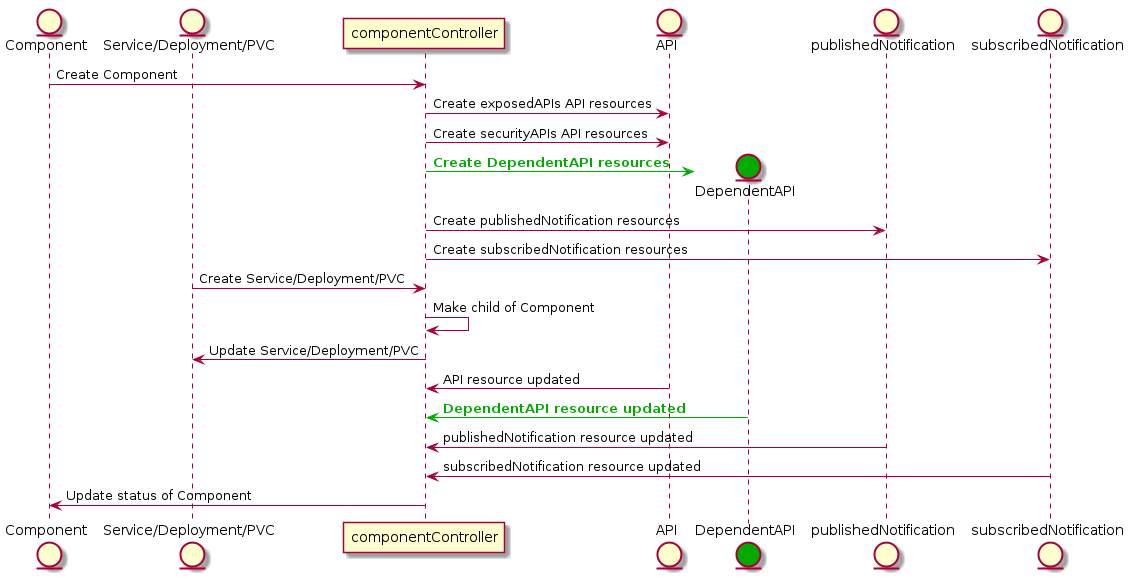
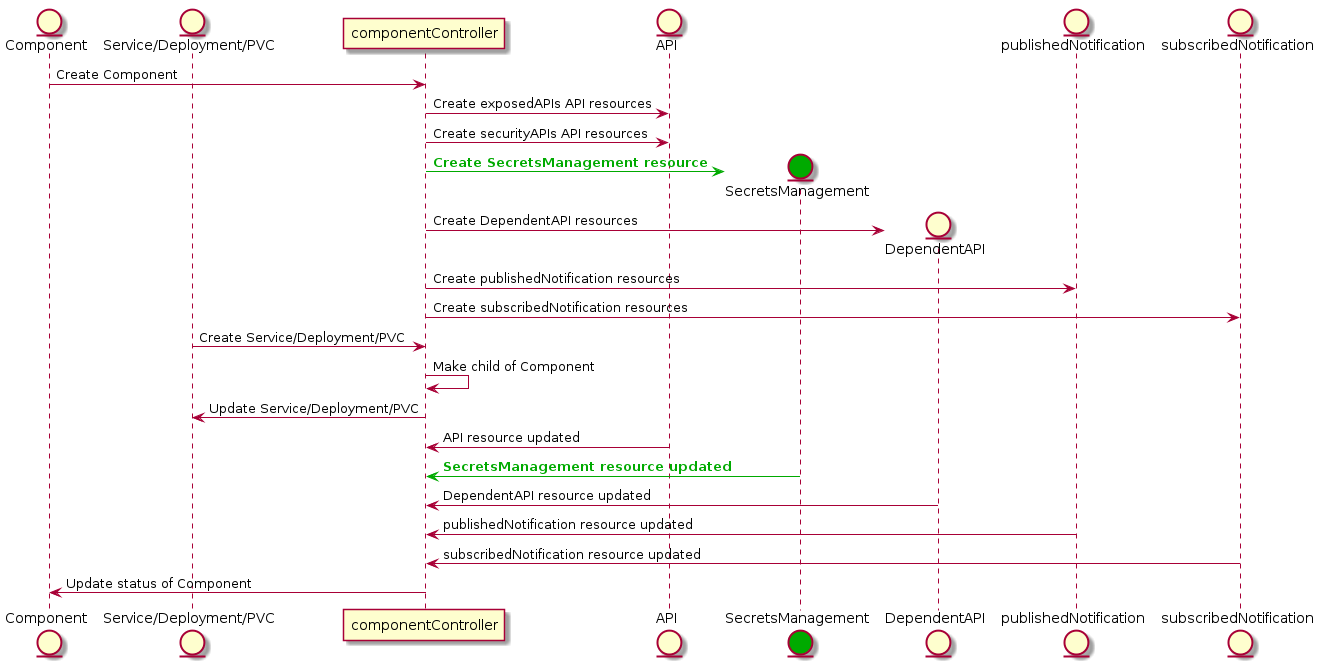
code-review: update componentoperator readme.

diff --git a/source/operators/componentOperator/README.md b/source/operators/componentOperator/README.md
@@ -1,6 +1,6 @@
 # Component Operator - Introduction
 
-This is the reference implementaiton of a component controller that takes metadata from ODA Component and uses it to automatically configure the exposedAPIs, securityAPIs ${\color{green}, dependentAPIs}$ (and in the future other services). The diagram below shows how the component controller interacts with the different Kubernetes entities (via the Kubernetes API).
+This is the reference implementaiton of a component controller that takes metadata from ODA Component and uses it to automatically configure the exposedAPIs, securityAPIs ${\color{green}, SecretsManagement}$, dependentAPIs (and in the future other services). The diagram below shows how the component controller interacts with the different Kubernetes entities (via the Kubernetes API).
 
 
 
